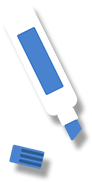
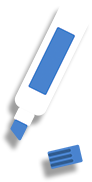
Figuras realocadas corretamente

diff --git a/js/app.js b/js/app.js
@@ -1,12 +1,12 @@
 'use strict';
 
 //Coordernadas do molde
-var xMolde = [415, 480, 415, 429, 520, 468, 650];
+var xMolde = [417, 480, 416, 429, 520, 467, 649];
 var yMolde = [160, 160, 222, 310, 310, 439, 530];
 
 //Coordernadas à encaixar
-var xEncaixe = [200, 200, 200, 200, 200, 200, 200];
-var yEncaixe = [2, 2, 2, 2, 2, 2, 2];
+var xEncaixe = [200, 100, 200, 930, 950, 950, 100];
+var yEncaixe = [520, 250, 360, 350, 100, 480, 80];
 
 var tangran, interval, tempo, diferencaX, diferencaY, margemDeErroEncaixe = 5;
 var sprite, sprite2, sprite3; 
@@ -36,18 +36,11 @@ setTangran();
 var game = new Phaser.Game(window.innerWidth, screen.height, Phaser.AUTO, 'tangran', { preload: preload, create: create });
 
 function preload() {
-
-    var n = tangran[0].object;
-    
-    //game.load.image('quad', 'assets/gato/quad1.png');
     
     game.load.image('folha', 'img/folha.png');
     game.load.image('canetaAzul', 'img/canetaAzul.png');
-    game.load.image('canetas', 'img/canetas.png');
     game.load.image('cafe', 'img/cafe.png');
     game.load.image('smartphone', 'img/smartphone.png');    
-    
-    game.load.image('gato', 'assets/gato/gato.png')
     
 	tangran.forEach(function (item) {
 		game.load.image(item.figureName, item.url);
@@ -57,14 +50,12 @@ function preload() {
 function create() {
     
     game.physics.startSystem(Phaser.Physics.ARCADE);
-
-    game.add.sprite(390, 100, 'folha');
-    game.add.sprite(280 , 100, 'canetaAzul');
-    game.add.sprite(1250 , 280, 'canetas');
-    game.add.sprite(30 , 420, 'cafe');
-    game.add.sprite(1230 , 550, 'smartphone');  
+    game.stage.backgroundColor = "#535353";
     
-    game.add.sprite(415, 160, 'gato');
+    game.add.sprite(390, 100, 'folha');
+    game.add.sprite(780 , 70, 'canetaAzul');
+    game.add.sprite(1110 , 320, 'cafe');
+    game.add.sprite(30 , 450, 'smartphone');  
     
     //game.add.sprite(450, 60, 'quad');
     
@@ -76,23 +67,8 @@ function create() {
             item.object.x = xMolde[i];
             item.object.y = yMolde[i];
 		game.physics.arcade.enable(item.object);
-		//item.object.tint = 0x00beff; //Cor Molde Encaixe   
-        item.object.tint = Phaser.Color.getRandomColor(1, 255, 255);
-    });    
-    
-	sprite = game.add.sprite(380, 30, 'canetaAzul');
-	game.physics.enable(sprite, Phaser.Physics.ARCADE);
-	sprite.body.collideWorldBounds = true;
-	sprite.body.checkCollision.up = false;
-	sprite.body.checkCollision.down = false;
-	sprite.body.immovable = true;
-
-	sprite2 = game.add.sprite(350, 400, 'cafe', 2);
-
-	game.physics.enable(sprite2, Phaser.Physics.ARCADE);
-	sprite2.body.collideWorldBounds = true;
-	sprite2.body.bounce.setTo(1, 1);
-	
+		item.object.tint = 0x00beff; //Cor Molde Encaixe   
+    });    	
 
 	tangran.forEach(function (item, i) {
        

diff --git a/css/style.css b/css/style.css
@@ -1,13 +1,9 @@
 html, body {
 	margin: -0.1px;
 	padding: 0px;
-	background-color: #F5F5F5;
 	font-family: 'Roboto', sans-serif;
-<<<<<<< HEAD
 	overflow-x: hidden;
-=======
-        overflow-x: hidden;
->>>>>>> origin/master
+    /*background-image: url("img/fundo.jpg");*/
 }
 
 #tangram {

diff --git a/README.md b/README.md
@@ -29,10 +29,6 @@ Tangram é um antigo jogo chinês, que consiste na formação de figuras e desen
 - Lucas Jorge Hubert;
 - Matheus de Quadros;
 - Patrik Reisner.
-<<<<<<< HEAD
 ## LINK DO PROJETO NA WEB: https://patrikfreisner.github.io/canvas_gitrep/
 
 https://waffle.io/patrikfreisner/canvas_gitrep
-=======
-## LINK DO PROJETO NA WEB: https://johnykleincatolica.github.io/JogoTangran/
->>>>>>> origin/master
